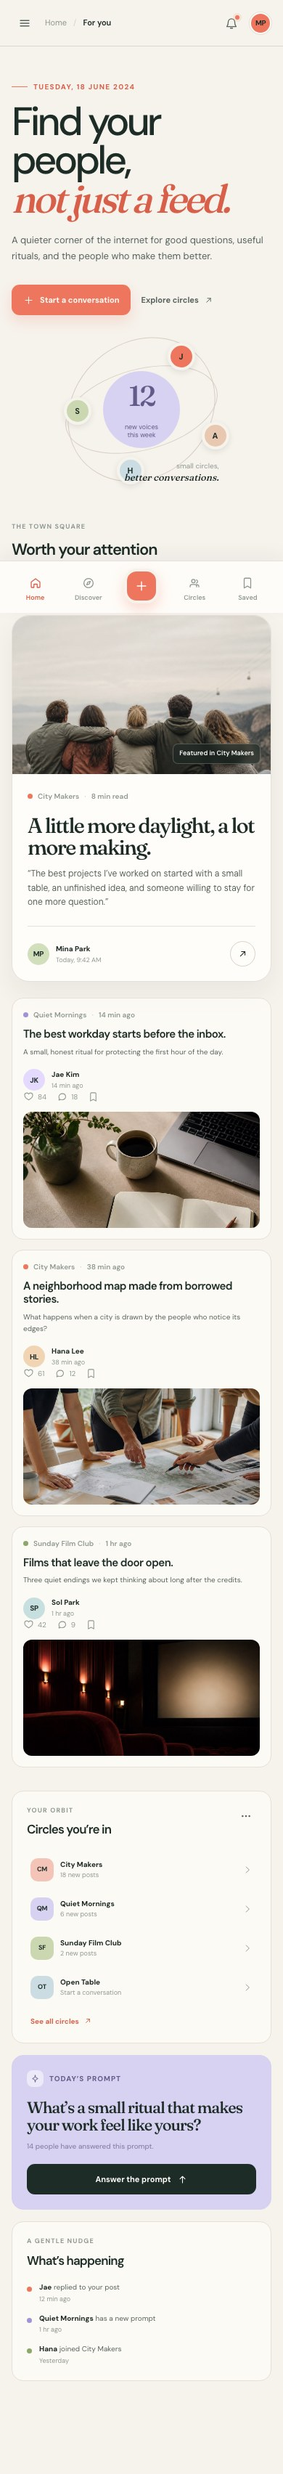
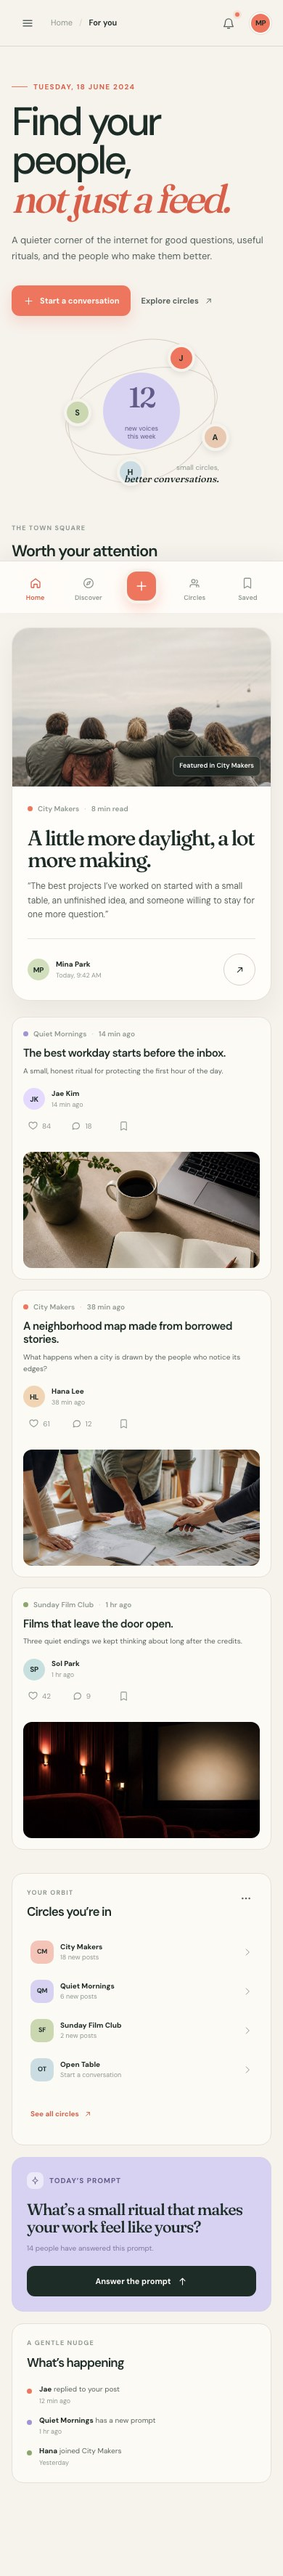
feat: harden mobile touch target polish

diff --git a/examples/community/styles.css b/examples/community/styles.css
@@ -286,16 +286,16 @@ h1 em { color: var(--coral-deep); font-family: var(--serif); font-weight: 500; l
   .sidebar.is-open { transform: translateX(0); box-shadow: 18px 0 50px rgba(29,40,36,.22); }
   .sidebar-scrim { position: fixed; inset: 0; z-index: 30; display: block; background: rgba(29,40,36,.35); opacity: 0; pointer-events: none; transition: opacity .3s var(--ease-out); }.sidebar-scrim.is-visible { opacity: 1; pointer-events: auto; }
   .mobile-menu-button { display: grid; }
-  .topbar { min-height: 64px; padding: 0 20px; }.topbar-left { gap: 10px; }.topbar-actions { gap: 7px; }.topbar-actions .search-field { display: none; }
+  .topbar { min-height: 64px; padding: 0 20px; }.topbar-left { gap: 10px; }.topbar-actions { gap: 7px; }.topbar-actions .search-field { display: none; }.mobile-menu-button, .topbar-actions > .icon-button { width: 44px; height: 44px; }
   .page-content { padding: 48px 20px 54px; }
   .welcome-section { display: block; min-height: 0; margin-bottom: 48px; }.welcome-copy { max-width: none; }.welcome-art { width: 270px; height: 215px; margin: 22px auto 0; transform: none; }.orbit-one { width: 215px; height: 112px; }.orbit-two { width: 185px; height: 216px; }.art-center { width: 106px; height: 106px; }.art-center span { font-size: 39px; }
   h1 { font-size: clamp(45px, 14vw, 69px); }.welcome-description { font-size: 13px; }.welcome-actions { flex-wrap: wrap; gap: 14px; }
-  .section-heading-row { display: block; }.feed-filters { width: fit-content; margin-top: 15px; }.feature-card { grid-template-columns: 1fr; }.feature-image-wrap, .feature-image { min-height: 218px; height: 218px; }.feature-content { min-height: 0; padding: 23px 21px 20px; }.feature-content h3 { max-width: 400px; margin-top: 18px; font-size: 32px; }.feature-content p { margin-bottom: 22px; }
+  .section-heading-row { display: block; }.feed-filters { width: fit-content; margin-top: 15px; }.filter-chip { min-height: 44px; padding-right: 12px; padding-left: 12px; }.feature-card { grid-template-columns: 1fr; }.feature-image-wrap, .feature-image { min-height: 218px; height: 218px; }.feature-content { min-height: 0; padding: 23px 21px 20px; }.feature-content h3 { max-width: 400px; margin-top: 18px; font-size: 32px; }.feature-content p { margin-bottom: 22px; }
   .right-rail { display: grid; grid-template-columns: 1fr; }.activity-card { grid-column: auto; }
   .mobile-nav { position: fixed; right: 0; bottom: 0; left: 0; z-index: 25; display: grid; grid-template-columns: repeat(5, 1fr); align-items: end; height: 72px; padding: 7px 12px max(7px, env(safe-area-inset-bottom)); border-top: 1px solid var(--line); background: rgba(255,253,249,.94); box-shadow: 0 -8px 24px rgba(31,40,35,.05); backdrop-filter: blur(12px); }
   .mobile-nav-item { display: grid; justify-items: center; gap: 3px; min-height: 48px; padding: 5px 3px; border-radius: 10px; background: transparent; color: var(--ink-faint); font-size: 9px; font-weight: 600; }.mobile-nav-item .icon { width: 18px; height: 18px; }.mobile-nav-item.is-active { color: var(--coral-deep); }
   .mobile-compose { display: grid; place-items: center; width: 48px; height: 48px; margin: -13px auto 6px; border: 4px solid var(--paper); border-radius: 17px; background: var(--coral); color: #fff; box-shadow: 0 8px 18px rgba(239,118,94,.25); }.mobile-compose .icon { width: 20px; height: 20px; }
-  .post-card { grid-template-columns: 1fr 102px; gap: 13px; padding: 15px; }.post-thumb { min-height: 102px; }.post-title { font-size: 15px; }.post-excerpt { font-size: 10px; }.post-actions { gap: 10px; }
+  .post-card { grid-template-columns: 1fr 102px; gap: 13px; padding: 15px; }.post-thumb { min-height: 102px; }.post-title { font-size: 15px; }.post-excerpt { font-size: 10px; }.post-actions { gap: 10px; }.post-action { min-width: 44px; min-height: 44px; justify-content: center; }.round-arrow { width: 44px; height: 44px; }.text-button, .rail-link { min-height: 44px; padding-top: 7px; padding-bottom: 7px; }
   .dialog-footer { align-items: flex-start; flex-direction: column; }.dialog-footer .button { width: 100%; }
 }
 

diff --git a/examples/community/board.html b/examples/community/board.html
@@ -35,7 +35,7 @@
     <header class="board-header">
       <a class="board-brand" href="./index.html" aria-label="Back to Gather home"><span class="board-brand-mark">g</span><span>Gather</span></a>
       <div class="board-crumb"><span>Community system</span><i></i><strong>Design board</strong></div>
-      <div class="board-header-actions"><span class="version-chip">v0.6 · review</span><a class="open-prototype" href="./index.html">Open prototype <svg class="board-icon" aria-hidden="true"><use href="#board-arrow" /></svg></a></div>
+      <div class="board-header-actions"><span class="version-chip">v0.8 · review</span><a class="open-prototype" href="./index.html">Open prototype <svg class="board-icon" aria-hidden="true"><use href="#board-arrow" /></svg></a></div>
     </header>
 
     <main class="board-main" id="boardMain" data-view="desktop">

diff --git a/tests/test_community_example_contract.py b/tests/test_community_example_contract.py
@@ -37,6 +37,9 @@ class CommunityExampleContractTests(unittest.TestCase):
         self.assertIn('env(safe-area-inset-bottom)', self.css)
         self.assertIn('@media (prefers-reduced-motion: reduce)', self.css)
         self.assertIn('@media (max-width: 760px)', self.css)
+        self.assertIn('.filter-chip { min-height: 44px;', self.css)
+        self.assertIn('.post-action { min-width: 44px; min-height: 44px;', self.css)
+        self.assertIn('.round-arrow { width: 44px; height: 44px;', self.css)
 
     def test_keyboard_and_focus_handoff_contracts_are_present(self):
         self.assertIn('href="#mainContent"', self.html)

diff --git a/examples/community/design-spec.md b/examples/community/design-spec.md
@@ -85,6 +85,7 @@ This prevents “community” from defaulting to one feed pattern. The selected 
 | Cmd/Ctrl + K | Search receives focus |
 | Filter, circle scope, or search query | State is restored from and reflected in the URL without losing other query parameters |
 | Skip to main content | Keyboard users can bypass the navigation shell and focus the primary content landmark |
+| Mobile interaction targets | Core mobile controls render with a minimum 44 × 44 px usable box at the 390 px target |
 | Composer or mobile drawer dismissal | Focus returns to the trigger after close, publish, or Escape recovery |
 
 ## Prototype map
@@ -129,7 +130,7 @@ board.html
 | Mobile 390 × 844 | [`board-390.jpg`](evidence/board-390.jpg), [`prototype-390.jpg`](evidence/prototype-390.jpg) | One-column cards, horizontal filters, bottom navigation, composer, empty/loading/recovery/success states |
 | Native intent: iOS 390 pt / Android 360 dp | Platform translation artboards | Large-title/tab-bar and app-bar/FAB behavior are specified; native runtime remains a target, not a shipped surface |
 
-The live surface was checked after the direction, platform, and archetype boards were added. Runtime QA also exercised composer validation → recovery → publish success, feed filter state, mobile drawer open → Escape recovery, URL restoration, prototype and board history-state rehydration, local font loading, search URL synchronization, composer focus return, drawer focus return, board dialog focus return, and skip-link navigation. The [evidence manifest](evidence/manifest.json) binds each capture and runtime assertion to its route, viewport, and represented state; run `npm run test:browser` and `npm run validate:evidence` to verify the interaction contract and JPEG dimensions. Evidence captures are committed under `examples/community/evidence/`; they are full-page JPEG screenshots produced from the local server at the viewport sizes named above. Reproduce the surface with the command in [Run locally](#run-locally), then open `/board.html` and `/index.html` at the declared sizes. The static example has no backend or network dependency; loading, empty, recovery, validation, and success are represented as deterministic prototype states. Contributors can regenerate the capture matrix with `npm install`, `npx playwright install chromium`, and `npm run capture:community`; the command reads the manifest instead of maintaining a second list of viewports.
+The live surface was checked after the direction, platform, and archetype boards were added. Runtime QA also exercised composer validation → recovery → publish success, feed filter state, mobile drawer open → Escape recovery, URL restoration, prototype and board history-state rehydration, local font loading, search URL synchronization, composer focus return, drawer focus return, 44 px mobile touch-target geometry, board dialog focus return, and skip-link navigation. The [evidence manifest](evidence/manifest.json) binds each capture and runtime assertion to its route, viewport, and represented state; run `npm run test:browser` and `npm run validate:evidence` to verify the interaction contract and JPEG dimensions. Evidence captures are committed under `examples/community/evidence/`; they are full-page JPEG screenshots produced from the local server at the viewport sizes named above. Reproduce the surface with the command in [Run locally](#run-locally), then open `/board.html` and `/index.html` at the declared sizes. The static example has no backend or network dependency; loading, empty, recovery, validation, and success are represented as deterministic prototype states. Contributors can regenerate the capture matrix with `npm install`, `npx playwright install chromium`, and `npm run capture:community`; the command reads the manifest instead of maintaining a second list of viewports.
 
 ### Review scores
 

diff --git a/README.md b/README.md
@@ -41,7 +41,7 @@ npm run test:browser
 npm run test:visual
 ```
 
-`npm run test:browser` proves URL restoration, history-state rehydration, local font loading, search URL synchronization, composer focus return, mobile drawer focus return, board dialog focus return, and skip-link navigation in Chromium.
+`npm run test:browser` proves URL restoration, history-state rehydration, local font loading, search URL synchronization, composer focus return, mobile drawer focus return, 44px mobile touch targets, board dialog focus return, and skip-link navigation in Chromium.
 
 ## Quality checks
 
@@ -65,4 +65,4 @@ The community reference surface is intentionally `review-ready`, not `release-re
 
 Read [`CONTRIBUTING.md`](CONTRIBUTING.md) before opening a change. The short version is: preserve the existing product decisions, add evidence for new states or viewports, run `npm run ci:quality`, and describe any remaining finding with severity, evidence, and next action.
 
-The current roadmap is [`docs/superpowers/plans/2026-08-21-design-skills-v0.7-audit-and-screen-coverage.md`](docs/superpowers/plans/2026-08-21-design-skills-v0.7-audit-and-screen-coverage.md).
+The current roadmap is [`docs/superpowers/plans/2026-08-21-design-skills-v0.8-mobile-touch-contract.md`](docs/superpowers/plans/2026-08-21-design-skills-v0.8-mobile-touch-contract.md).

diff --git a/docs/superpowers/plans/2026-08-21-design-skills-v0.8-mobile-touch-contract.md b/docs/superpowers/plans/2026-08-21-design-skills-v0.8-mobile-touch-contract.md
@@ -1,0 +1,18 @@
+# Design Skills v0.8 Mobile Touch Contract Roadmap
+
+## Goal
+
+Make the responsive web reference feel production-ready at the first mobile breakpoint by treating touch target geometry as part of the visual system, not as an accessibility note added after the layout.
+
+## Scope
+
+- [x] Inspect the committed 390px prototype evidence and the mobile CSS breakpoint.
+- [x] Give mobile menu, filter, post action, circle row, navigation, primary link, and featured-story controls a minimum 44px interaction box.
+- [x] Preserve the visual scale of compact icons while expanding their usable hit area.
+- [x] Add Chromium QA that measures the rendered interaction boxes at 390 × 844.
+- [x] Keep safe-area padding, reduced motion, and existing focus styling intact.
+- [ ] Add native simulator evidence when iOS/Android implementation enters scope.
+
+## Review note
+
+The responsive web surface remains `review-ready`, not `release-ready`: touch geometry is now verified for the web target, while native target evidence, backend persistence, and deployment integration remain intentionally open.
